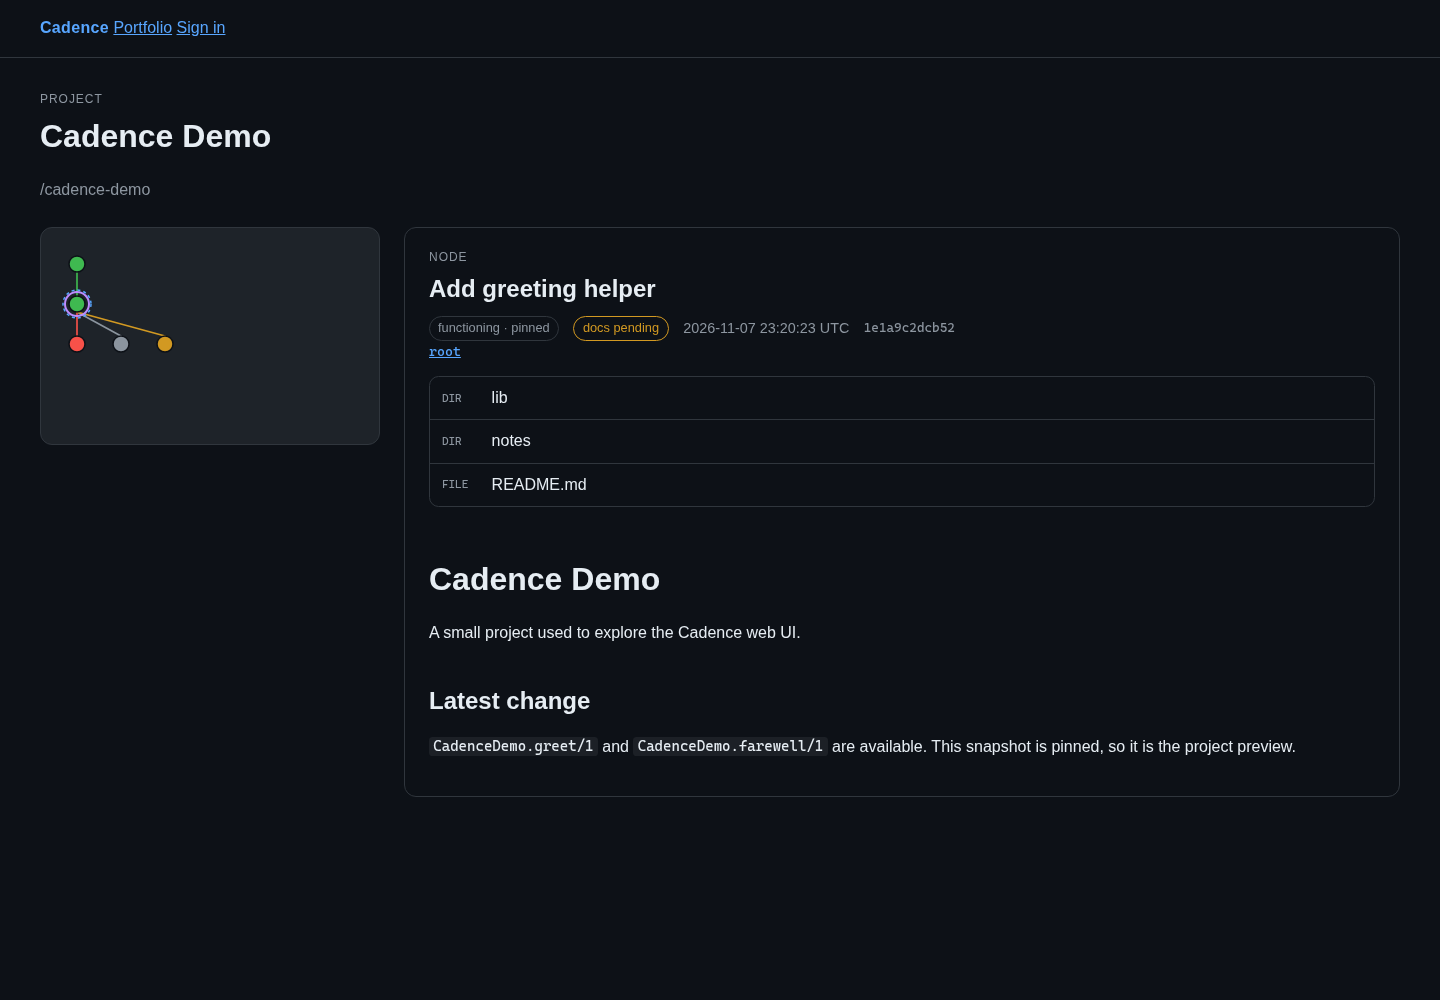
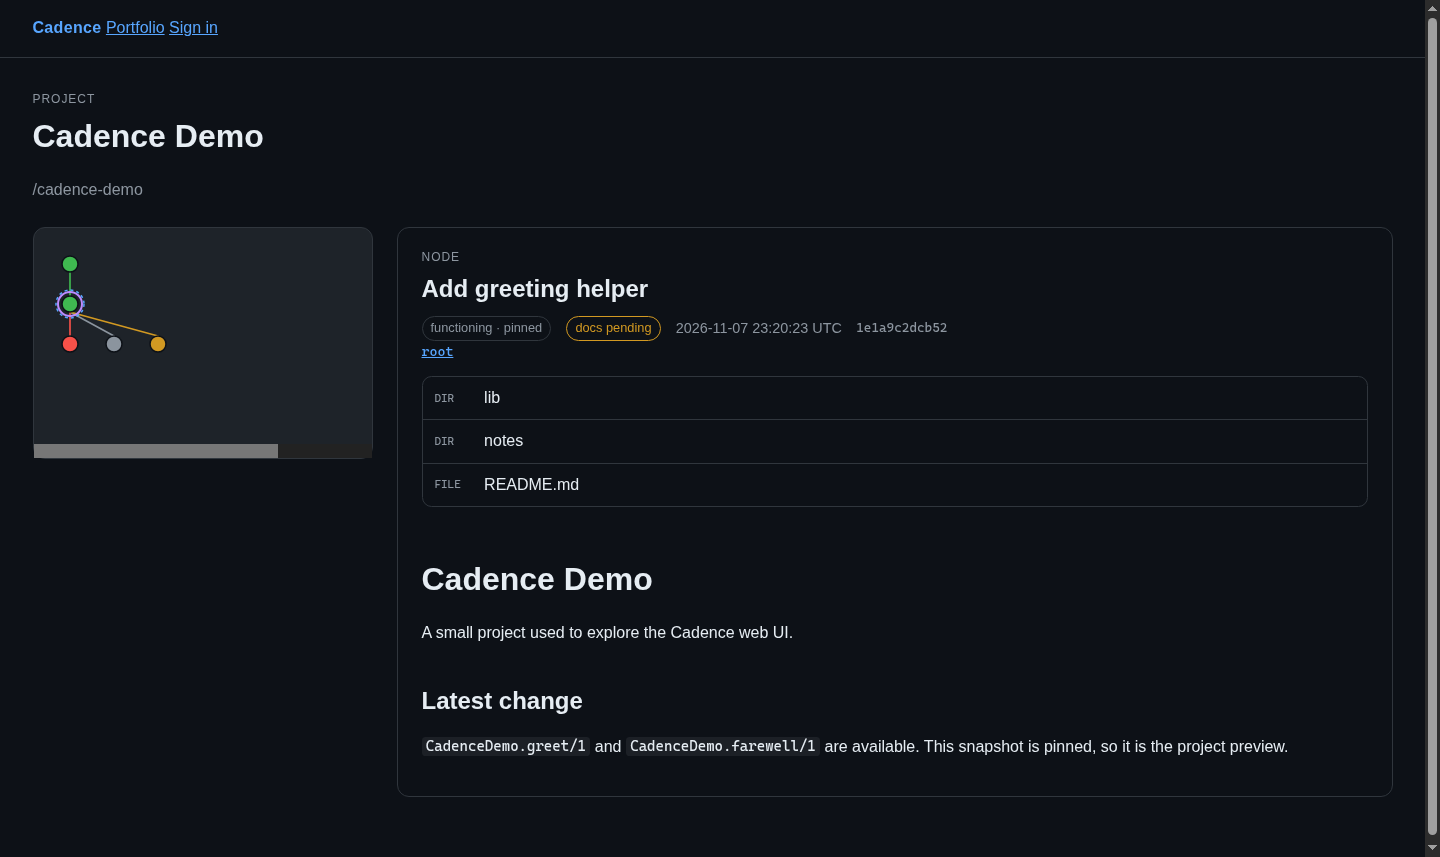
fix: size the project DAG to the columns it uses
- DAGLayout.layout/2 derives the SVG width from the maximum nodes per layer
  (capped by max_columns) instead of always reserving max_columns (444px at
  defaults). A 1-column chain is 48px and a 2-column branch is 92px, so a
  small graph no longer overflows the 25% rail.
- .dag-canvas gains min-width: 100%, so the scroll box fills the rail and a
  graph narrower than it never shows a horizontal scrollbar; a graph wider
  than the rail still scrolls at natural size. Nodes stay left-aligned and
  unscaled (spec §7.3), so tooltip and selection coordinates are unchanged.
- Tests: layout width for 1/2 columns plus a component assertion on the
  rendered canvas/SVG width. Full suite 1111 (312 shared + 592 server + 207
  daemon); format and dev/prod compile clean.
- Verified on the rebuilt demo at 1440x1000 and 390x844: scrollWidth ==
  clientWidth, overflowing == false. Before/after screenshots refreshed and
  the spec §7.3 rule recorded; ui-notes moves the item to Done and the
  progress handoff points at 8b.

diff --git a/apps/cadence_server/priv/static/css/app.css b/apps/cadence_server/priv/static/css/app.css
@@ -224,6 +224,9 @@ code {
 
 .dag-canvas {
   min-height: 12rem;
+  /* Fill the rail so a graph narrower than it never scrolls; the inline width
+     from the layout still wins when the graph is wider than the rail (§7.3). */
+  min-width: 100%;
 }
 
 .dag-panel svg {

diff --git a/docs/progress.md b/docs/progress.md
@@ -1,14 +1,14 @@
 # Cadence — Progress
 
 ## Current Phase
-**Phase 8a — production server release complete.** The planned build order
-(Phases 1–7) and 6c operational hardening were already complete; this session
-shipped the server artifact spec §12.8 had deferred: the root `cadence` release,
-`Cadence.Server.Release.migrate/0`, `docker/Dockerfile`,
-`docker-compose.prod.yml`, and `docs/deploy.md`. One user-flagged UI defect is
-now the top of **Next** (the project-home DAG canvas does not scale to its
-panel; `docs/ui-notes.md`). **Phase 8b (daemon release)** follows it; the other
-items are optional.
+**Phase 8a — production server release complete; DAG width defect fixed.** The
+planned build order (Phases 1–7) and 6c operational hardening were already
+complete; this session shipped the server artifact spec §12.8 had deferred (root
+`cadence` release, `Cadence.Server.Release.migrate/0`, `docker/Dockerfile`,
+`docker-compose.prod.yml`, `docs/deploy.md`) and then fixed the user-flagged
+project-home DAG overflow (`DAGLayout` now sizes to the columns actually used;
+`.dag-canvas` fills the rail). **Phase 8b (daemon release)** is the next slice;
+the remaining items are optional.
 
 ## Done (summary)
 
@@ -722,6 +722,18 @@ items are optional.
   §12.3/§12.4/§12.7/§12.8/§13/§16, `docs/README.md`, and `docs/demo.md` updated.
   Lesson:
   `.claude/solutions/docker/release-image-runtime-glibc-20261108.md`.
+- **DAG width fix (2026-11-08, user-flagged)** — the project-home rail no longer
+  overflows. `DAGLayout.layout/2` derives the SVG width from the columns
+  actually occupied (capped by `max_columns`) instead of always reserving 10
+  columns (444px), and `.dag-canvas` gained `min-width: 100%`, so a small graph
+  fills the rail's scroll box without a horizontal scrollbar while a graph wider
+  than the rail still scrolls at natural size. Nodes stay left-aligned and
+  unscaled (§7.3), so tooltip/selection coordinates are unchanged. New tests:
+  a 1-column chain is 48px and a 2-column branch is 92px, plus a component
+  assertion on the rendered canvas/SVG width. Verified on the rebuilt demo at
+  1440×1000 and 390×844: `scrollWidth == clientWidth`, `overflowing == false`;
+  before/after screenshots in `docs/images/`. Spec §7.3 records the rule and
+  `docs/ui-notes.md` moved the item to Done.
 - **4e gate:** 640 tests green (161 shared + 125 daemon + 354 server);
   `mix format --check-formatted`, `mix compile --warnings-as-errors`, and
   `MIX_ENV=prod mix compile --warnings-as-errors` clean; prod build reports
@@ -735,24 +747,14 @@ items are optional.
 
 ## Next
 
-**Immediate step:** fix the **project-home DAG scaling defect** flagged
-2026-11-08 (top item in `docs/ui-notes.md`). `DAGLayout.layout/2` sets the canvas
-width from the configured `max_columns` (default 10 → 444px) instead of the
-columns actually used, and `Components.DAG` hardcodes that width, so a small
-graph overflows the `minmax(16rem, 25%)` column and scrolls with dead space.
-Derive the width from the real maximum nodes-per-layer (or scale the SVG via
-`width: 100%` + viewBox), keep the tooltip/selection coordinates correct, and
-check 1440×1000 / 390×844 light+dark with 1–10 columns and a wrapped band.
-`@phx-quick` if it stays in `dag_layout.ex` + `dag.ex` + CSS; `@phx-investigate`
-if the tooltip/scaling behavior needs a deeper change.
-
-**After that:** **8b — daemon release.** Add a `cadence_daemon` release to the
-root `mix.exs` (release name `cadence_daemon`), a
+**Immediate step:** **8b — daemon release.** Add a `cadence_daemon` release to
+the root `mix.exs` (release name `cadence_daemon`), a
 `Cadence.Daemon.Release.migrate/0` that runs the SQLite
 `priv/repo/migrations`, and install/upgrade docs. Verify with
 `MIX_ENV=prod mix release cadence_daemon` and a migration run against a temp
-state dir. Spin up with `@phx-full`. The planned build order (spec §13) is
-otherwise complete; every item below is optional and independent.
+state dir. Spin up with `@phx-full`. The DAG width fix is complete; the planned
+build order (spec §13) is otherwise complete and every item below is optional
+and independent.
 
 Remaining optional work: the Phase 5 P5 docs live smoke with a real
 `CAD_LLM_API_KEY`, the rest of `docs/ui-notes.md` (header-nav spacing, a seeded
@@ -791,29 +793,20 @@ Carry-over (post-Phase-7, optional):
 
 **Spin-up:** `@phx-full` for the docs live smoke (needs `CAD_LLM_API_KEY`) or if
 a `docs/ui-notes.md` item turns into a multi-file fix; `@phx-quick` for a
-single-file residue. The planned build order in spec §13 is complete; no new
-dependency is expected.
+single-file residue. The planned build order in spec §13 is complete except 8b;
+no new dependency is expected.
 
 ## Blocked
 
 - (none). Phase 7 (7a–7d), the daemon boot guard, the demo-stack visual pass,
-  `:CadProposals`, 6c M1 (run queue) / M2 (retention) / M3 (paging), and Phase
-  8a (production server release) are complete, and every review's must-fix item
-  is applied and verified. Pre-existing follow-ups (unreadable-object
+  `:CadProposals`, 6c M1 (run queue) / M2 (retention) / M3 (paging), Phase
+  8a (production server release), and the DAG width fix are complete, and every
+  review's must-fix item is applied and verified. Pre-existing follow-ups (unreadable-object
   isolation, re-push of an existing row whose objects were later lost, the 8 MB
   retry ceiling, pack consolidation) remain recorded below and in spec §16.
 
 ## Spec Deltas / Open Items
 
-- **DAG canvas width is not responsive (2026-11-08, user-flagged)** — the
-  project-home DAG renders its SVG at a fixed `width` derived from the
-  **configured** `max_columns` (`DAGLayout.layout/2`: `24*2 + (max_columns-1)*44`
-  = 444px at defaults), not from the columns the graph actually uses. A small
-  graph therefore overflows the `minmax(16rem, 25%)` panel: dead space on the
-  right plus a horizontal scrollbar (screenshots in `docs/ui-notes.md`). Spec
-  §7.3/§7.5 requires a bounded, legible graph but does not say whether the
-  panel fits-to-width or scrolls, so the fix should choose and record the rule
-  (fit-to-panel with a minimum, or scroll only above the real column count).
 - **8a release notes (2026-11-08)** — (a) the runtime image distro must match
   the `elixir` build image's glibc: `docker/Dockerfile` builds on
   `elixir:1.20-otp-29` (Debian trixie) and runs on `debian:trixie-slim`; bump
@@ -2004,3 +1997,19 @@ overlay scrollbar hidden until scroll); screenshots saved under
 follow-up; `docs/ui-notes.md` carries the root cause, expected behavior, and
 verification checklist, and **Next** now leads with the fix, then 8b. Tree is
 still formatted/compiled from 8a; all changes remain uncommitted.
+
+2026-11-08 — **DAG width defect fixed** (the first item from the handoff).
+`DAGLayout.layout/2` now sizes the SVG from the columns actually occupied
+(capped by `max_columns`) instead of always reserving 10 columns (444px), and
+`.dag-canvas` gained `min-width: 100%`, so a small graph fills the rail's scroll
+box with no horizontal scrollbar while a graph wider than the rail still scrolls
+at natural size. Nodes stay left-aligned and unscaled (§7.3), so tooltip and
+selection coordinates are unchanged. Two new tests: a 1-column chain is 48px, a
+2-column branch is 92px, and the component renders the matching canvas/SVG
+width. Verification: format clean, dev + `MIX_ENV=prod` compile clean, 1111
+tests green (312 shared + 592 server + 207 daemon); the rebuilt demo at
+1440×1000 and 390×844 reports `scrollWidth == clientWidth` and
+`overflowing == false`; before/after screenshots under
+`docs/images/dag-width-{overflow,fixed}-*-20261108.png`. Spec §7.3 records the
+rule and `docs/ui-notes.md` moved the item to Done. Next: **8b — daemon
+release**; changes are uncommitted.

diff --git a/docs/ui-notes.md b/docs/ui-notes.md
@@ -13,27 +13,6 @@ styling pass is planned after 4c-3 (incident panel) unless a demo is imminent.
 
 ## Open
 
-- **BIGGEST CURRENT UI DEFECT — the project-home DAG canvas does not scale to
-  its panel (user-flagged 2026-11-08).** On `/p/:slug` the left DAG panel shows
-  a horizontal scrollbar with a large empty area to the right; the graph itself
-  stays at its natural size in the top-left instead of scaling to the panel.
-  Cause: `DAGLayout.layout/2` computes `width` from the **configured**
-  `max_columns` (default 10), not the columns actually used:
-  `24 * 2 + (10 - 1) * 44 = 444px` for every graph with ≤10 columns.
-  `Components.DAG` then hardcodes `width={@layout.width}` on the `<svg>` and
-  `style="width: …px"` on `.dag-canvas`. The left grid column is
-  `minmax(16rem, 25%)` — about 334px of content at 1440px — so a 2-column graph
-  overflows by ~110px, giving the ~75%-wide scrollbar thumb in the screenshot.
-  Expected: derive the width from the actual maximum nodes-per-layer (plus a
-  sensible minimum), or make the SVG scale (`width: 100%` + `viewBox` /
-  `preserveAspectRatio`) under a `max-width`; scroll only when the real graph is
-  wider than the panel. If the SVG scales, re-check `tooltip_x/2`, the 240px
-  `foreignObject`, and the selection ring — viewBox coordinates scale, so the
-  tooltip can shrink or drift. Verify 1440×1000 and 390×844, light/dark, with
-  1–10 columns and a wrapped band (>10 nodes in one layer).
-  Screenshots: `docs/images/dag-width-overflow-1440-20261108.png` (scrollbar
-  visible) and `docs/images/dag-width-overflow-390-20261108.png` (same dead
-  space; the overlay scrollbar is hidden until scrolled).
 - **6c action logs:** the run page renders captured logs as escaped text in a
   `<pre>` (ANSI/control sequences stripped). A "download raw log" or "copy"
   affordance is still missing; add it only if needed, keeping the same escaping
@@ -50,6 +29,17 @@ styling pass is planned after 4c-3 (incident panel) unless a demo is imminent.
 
 ## Done
 
+- **DAG canvas width (2026-11-08, user-flagged):** fixed. `DAGLayout.layout/2`
+  now sizes the SVG from the columns the graph actually occupies (capped by
+  `max_columns`), so the default no longer reserves 10 columns (444px) for a
+  2-column graph. `.dag-canvas` gained `min-width: 100%`: a small graph fills
+  the rail's scroll box without a horizontal scrollbar, while a graph wider
+  than the rail still scrolls at natural size. Nodes stay left-aligned and
+  unscaled per §7.3, so the tooltip and selection coordinates are unchanged.
+  Verified at 1440×1000 and 390×844 with `scrollWidth == clientWidth` and
+  `overflowing == false`; before/after screenshots under
+  `docs/images/dag-width-{overflow,fixed}-*-20261108.png` (the before shot
+  forces a classic scrollbar so headless Chrome paints it).
 - **Proposal queue kind column (2026-11-08):** the fixed `2.4rem` `.file-kind`
   width let `PROMOTION` overflow into the proposal title (`PROMOTIONPromotion
   proposal`). It is now `min-width: 2.4rem` + `white-space: nowrap`, so short

diff --git a/docs/spec.md b/docs/spec.md
@@ -732,7 +732,9 @@ becomes a product requirement; it is not part of Phase 3.
 1. Depth = longest path from any root.
 2. Order within layer by parent's horizontal position.
 3. Enforce max layer width; wrap into sub-rows with a visual break marker.
-4. Force left-align.
+4. Force left-align. The SVG is only as wide as the columns actually occupied
+   (capped by the max), so a small graph never overflows the rail; horizontal
+   scrolling appears only when the graph is wider than it (§7.3).
 
 **Interactivity:** LiveView owns selection state. Hover shows a CSS tooltip
 with the commit message and node status (flags/pinned) and highlights the node;
